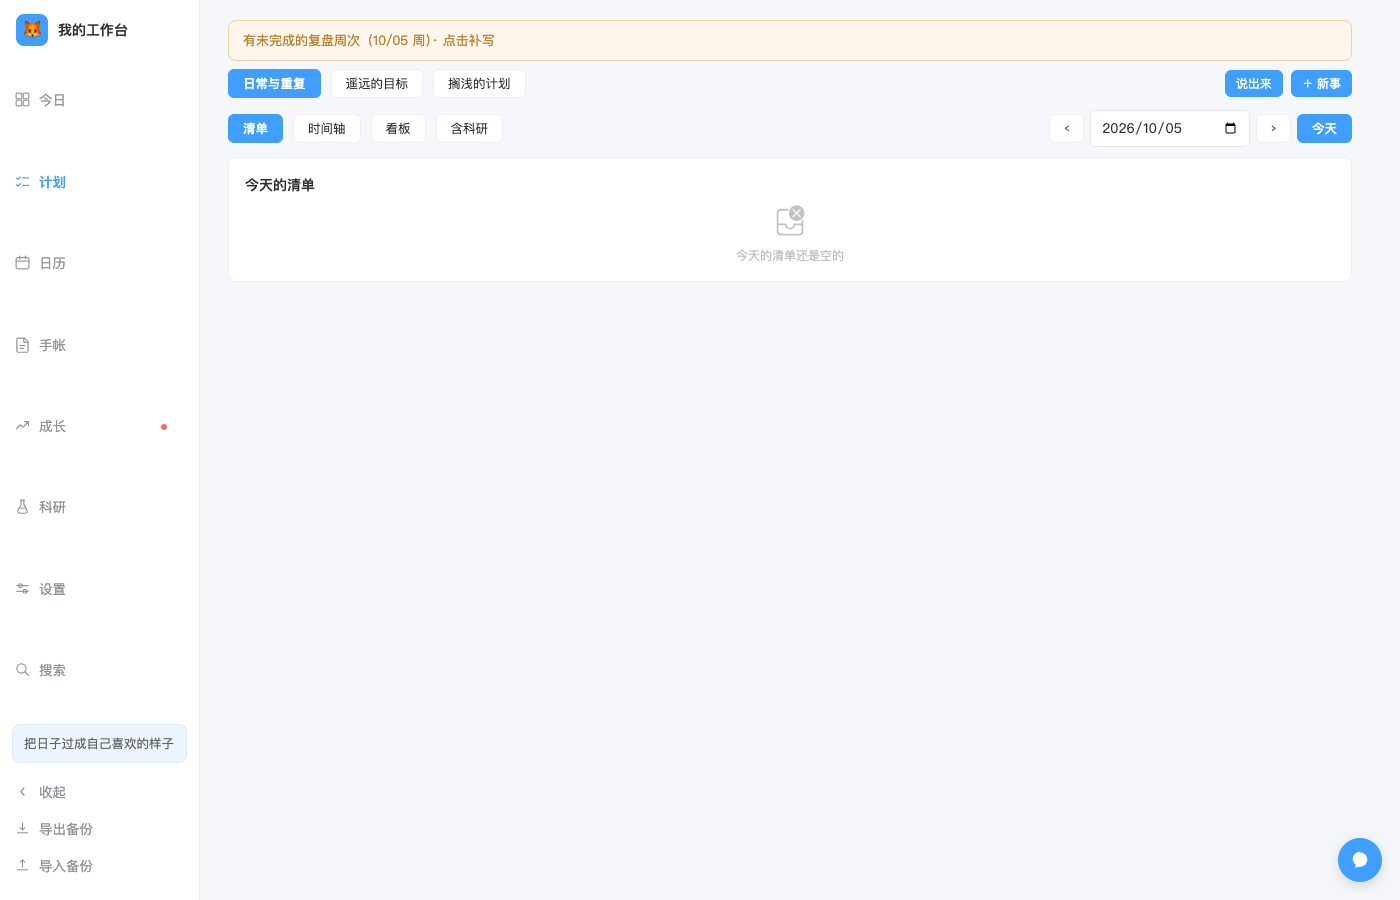
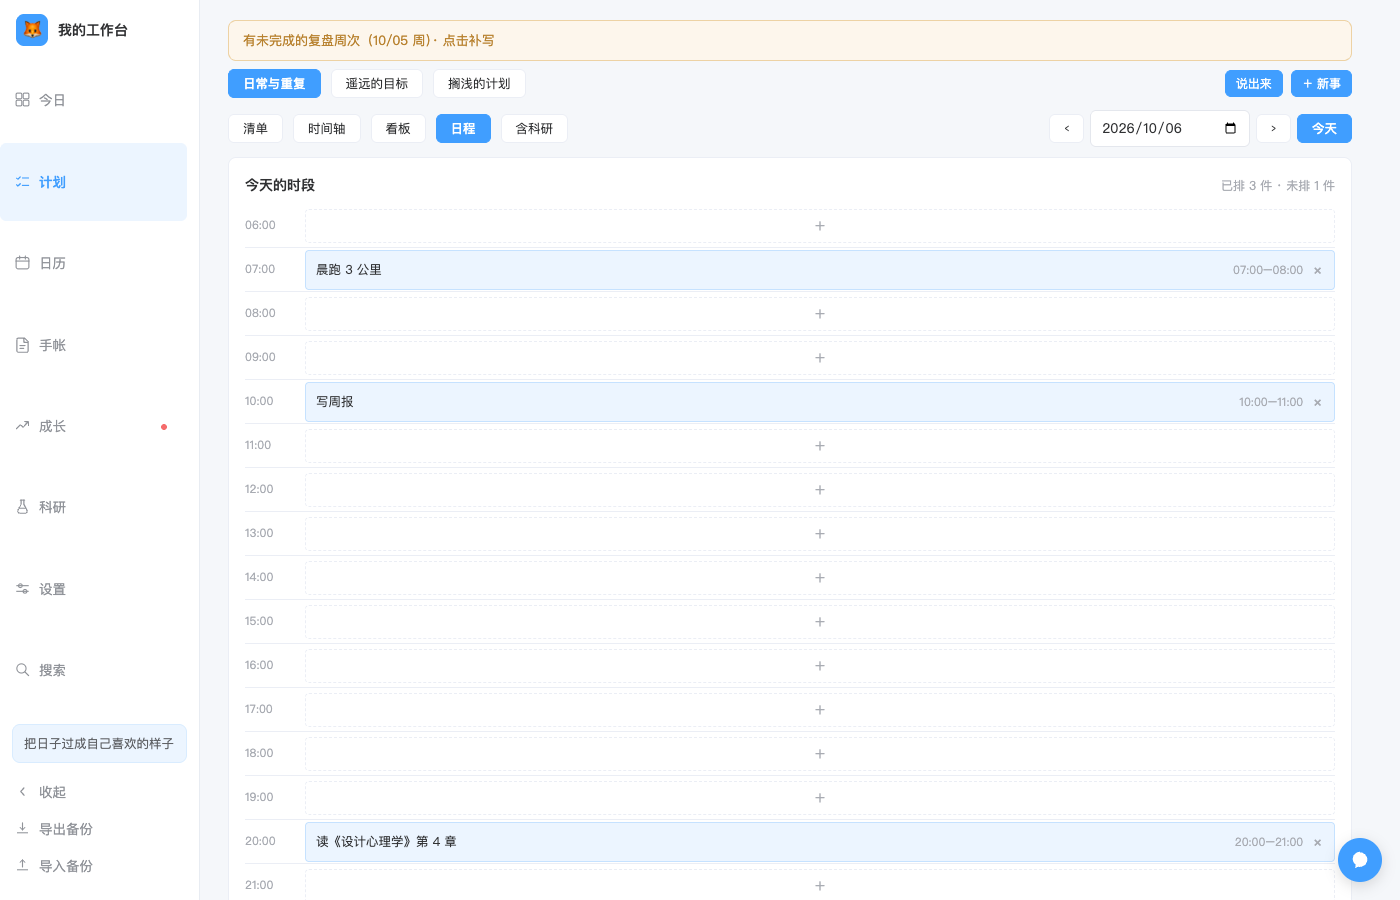
README 补上日程视图与课题子任务，截图同步
- 功能一览与「界面」两节补上第五种视图「日程」和课题子任务的说明
- 表数量 23 → 24（v13 新增 researchSubtasks）、迁移注记 v12 → v13
- 02-todos.png 换成日程视图（排 3 件、留 1 件未排）、09-research.png 换成带子任务的课题

顺带修一处口径不一致：右侧「平均推进」原来只读 p.progress，课题挂了子任务后
卡片按完成率显示、汇总却仍是旧值（实测一个 50% 的课题汇总显示 0%）。改为统一走 progressOf。

diff --git a/src/views/Research.vue b/src/views/Research.vue
@@ -243,7 +243,8 @@ const activeProjects = computed(() => (projects.value || []).filter(p => p.statu
 const avgProgress = computed(() => {
   const list = activeProjects.value
   if (!list.length) return 0
-  return Math.round(list.reduce((s, p) => s + (p.progress || 0), 0) / list.length)
+  // 用 progressOf，跟课题卡上那条进度同一口径（挂了子任务的按完成率算）
+  return Math.round(list.reduce((s, p) => s + progressOf(p), 0) / list.length)
 })
 const todoDone = computed(() => (todos.value || []).filter(r => r.inst?.status === 'done').length)
 const countOf = id => (projects.value || []).filter(p => p.directionId === id).length

diff --git a/README.md b/README.md
@@ -29,11 +29,11 @@
 | 模块 | 能做的事 |
 | --- | --- |
 | **今日** | 问候与日期、正在做的一件事、**番茄钟（25/30/40/50 分钟，走完自动记到任务上）**、今日印记（打卡）、今日之计 / 今日已成 / 七日将至、连续天数、AI 见闻（每天 6 条） |
-| **计划** | 日常与重复 / 遥远的目标 / 搁浅的计划三条线；清单、双时间轴、看板、甘特四种视图；计时与补时、deadline 紧急度、重复规则（每天 / 仅工作日 / 每周几 / 每隔几天）；**语音「说出来」一句话拆成多条任务**；移动端左滑完成、长按编辑 |
+| **计划** | 日常与重复 / 遥远的目标 / 搁浅的计划三条线；清单、双时间轴、看板、甘特、日程五种视图；**「日程」把一天切成 06:00–24:00 的时段，点「＋」把事排进去，排重了标红**；计时与补时、deadline 紧急度、重复规则（每天 / 仅工作日 / 每周几 / 每隔几天）；**语音「说出来」一句话拆成多条任务**；移动端左滑完成、长按编辑 |
 | **日历** | 月视图与周视图、节假日与调休角标（holiday-cn，离线缓存）、选中日的安排、本周任务、即将到来的事 |
 | **手账** | 碎碎念（可让 AI 改写，原文与 AI 版二选一）、每日一句、打卡热力图 |
 | **成长** | 复盘（复盘日可自定、错过会提示补写历史周）、日报 / 周报模板、技能、健身打卡、成就殿堂、长期资产库 |
-| **科研** | 项目 / 方向 / 笔记 / 心得，独立成区、不混进资产库，日程并入总日历 |
+| **科研** | 项目 / 方向 / 笔记 / 心得，**课题下可拆子任务，进度按完成率自动算**；独立成区、不混进资产库，日程并入总日历 |
 | **全局** | 命令面板 `Cmd/Ctrl + K`、操作撤销条、六类内容全局搜索、模块显隐与拖拽排序、**侧栏可折叠成图标条**、导出 / 导入备份、每周本地快照、PWA 可安装可离线 |
 
 ## 界面
@@ -42,7 +42,7 @@
 
 ![今日](docs/screenshots/01-home.png)
 
-**计划**：同一个清单可以切成清单 / 时间轴 / 看板 / 甘特四种看法。点「说出来」对着说话，一句话拆成多条任务，落库前每条都能改。
+**计划**：同一个清单可以切成清单 / 时间轴 / 看板 / 甘特 / 日程五种看法。「日程」把一天切成时段，点某一时段的「＋」挑一件事排进去，不想要了点「×」取出来，时间排重了会标红。点「说出来」对着说话，一句话拆成多条任务，落库前每条都能改。
 
 ![计划](docs/screenshots/02-todos.png)
 
@@ -58,7 +58,7 @@
 
 ![成长](docs/screenshots/04-growth.png)
 
-**科研**：项目 / 方向 / 笔记 / 心得独立成区，进度与日程分开管理。
+**科研**：项目 / 方向 / 笔记 / 心得独立成区，进度与日程分开管理。课题下可以拆出「下一步」，勾上或删掉，完成率立刻反映到那条进度条上。
 
 ![科研](docs/screenshots/09-research.png)
 
@@ -193,7 +193,7 @@ CREATE POLICY wb_news_read_all ON wb_news FOR SELECT TO authenticated, anon USIN
 
 ## 数据与隐私
 
-- **数据在哪**：浏览器 IndexedDB，库名 `LifeWorkbench`，23 张表。文件系统里没有任何用户数据文件。
+- **数据在哪**：浏览器 IndexedDB，库名 `LifeWorkbench`，24 张表。文件系统里没有任何用户数据文件。
 - **默认零上传**：不配置上面的环境变量时，除了「每日见闻」（只向 Hacker News 与 GitHub 的公开接口取标题，不携带任何个人信息）以外，应用不发任何请求。
 - **云同步是 opt-in**：表的行级权限按 `auth.uid()` 限制，别人即使拿到你的 `publishableKey` 也读不到你的数据；且服务端会校验来源域名。同步前会在本机先留一份快照，可以随时「并回那份快照」——注意它是**合并**（本机比快照新的内容不会被覆盖），不是整库替换。
 - **AI 有开关**：设置里的「AI 的分寸」可以逐项决定哪些内容允许 AI 读取（今天的任务 / 每周统计 / 心情分数 / 随笔原文 / 在练的技艺 / 健身记录）。关掉时，AI 只看汇总数字，读不到原文。
@@ -222,7 +222,7 @@ CREATE POLICY wb_news_read_all ON wb_news FOR SELECT TO authenticated, anon USIN
 life-workbench/
 ├─ src/
 │  ├─ App.vue            # 外壳：桌面侧栏 / 移动底部导航、命令面板、撤销条、模块注册表
-│  ├─ db.js              # Dexie 表结构与默认数据（含 v1 → v12 迁移、软删除表清单）
+│  ├─ db.js              # Dexie 表结构与默认数据（含 v1 → v13 迁移、软删除表清单）
 │  ├─ composables.js     # 各类响应式查询封装
 │  ├─ date.js            # 日期、工作日、重复规则的判定
 │  ├─ instance.js        # 幂等补算当日重复任务实例
